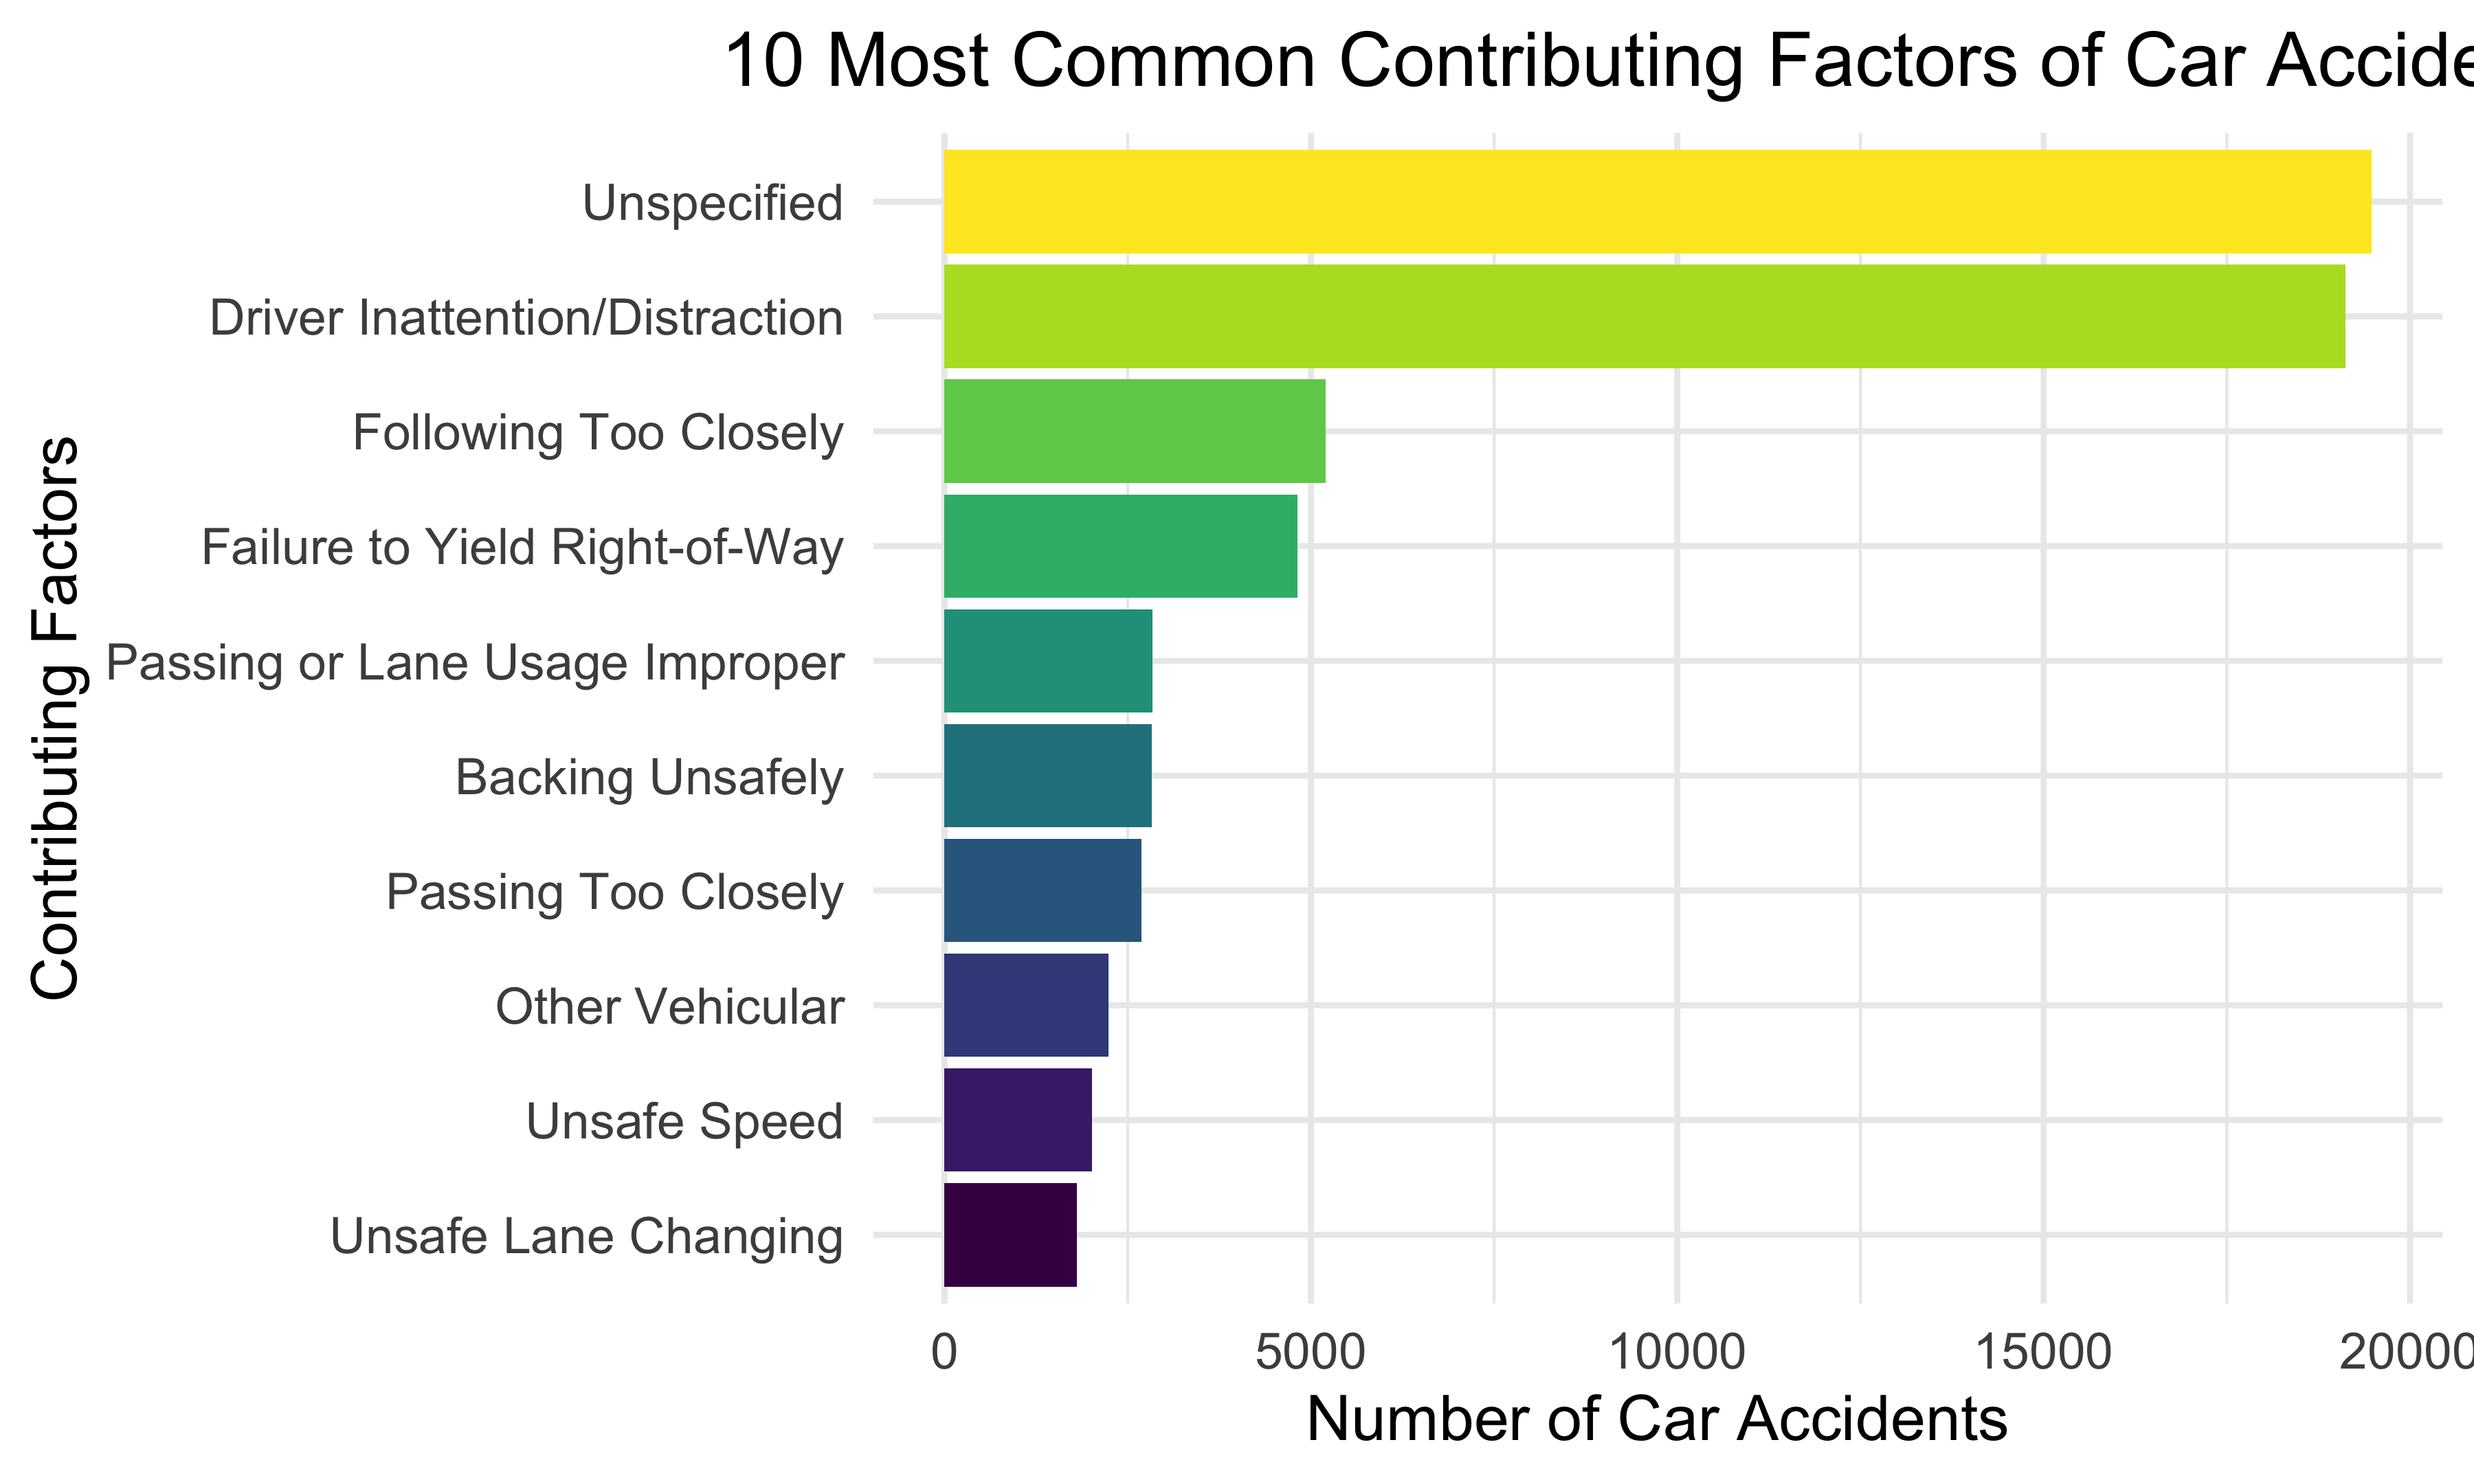
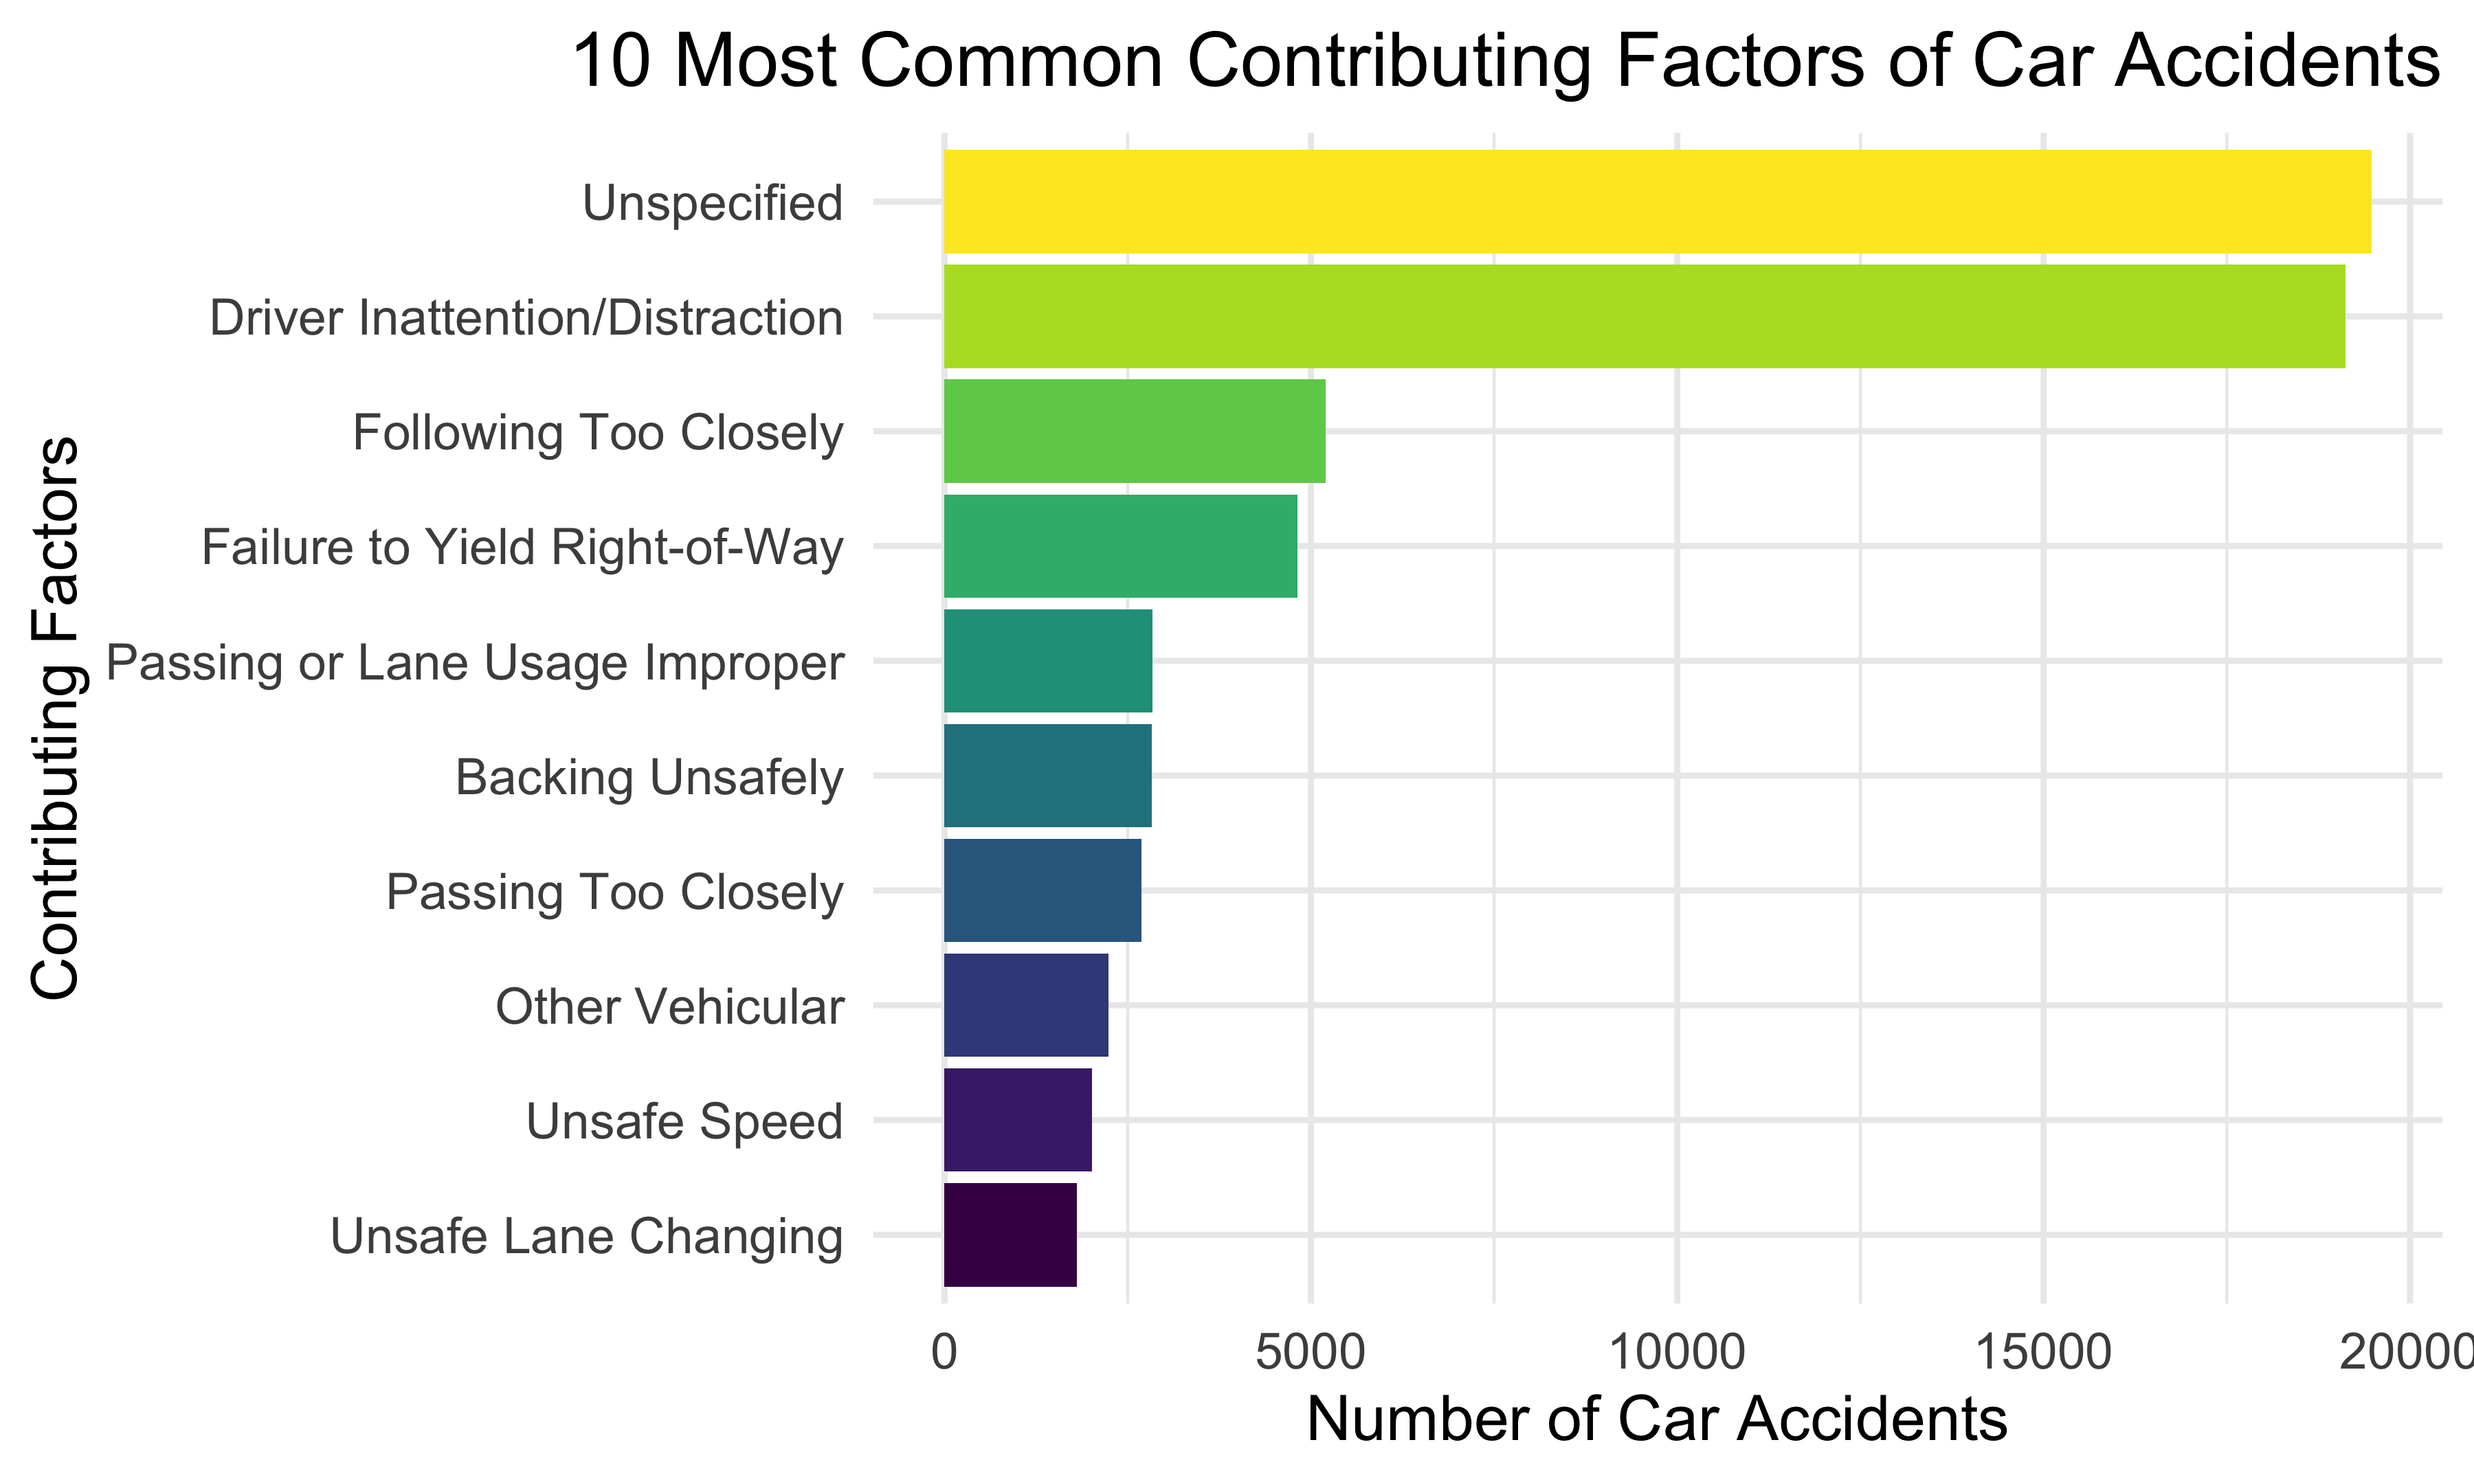
Update the frequency page

Changed region(s): [[0.2178, 0.0, 1.0, 0.062]]

diff --git a/frequency.html b/frequency.html
@@ -412,13 +412,13 @@ div.tocify {
 
 
 <div id="accident-frequency" class="section level3">
-<h3>Accident frequency</h3>
-<p>First, we will have a overview of the relevant factors about car
-accidents using bar chart.</p>
+<h3>Accident Frequency</h3>
+<p>First, we will focus on factors that relate to the number of
+accidents. We use bar charts to illustrate the number of accidents by
+contributing factors, street, borough and month, and day.</p>
 </div>
-<div id="most-common-contributing-factors-of-car-accidents"
-class="section level3">
-<h3>10 most common contributing factors of car accidents</h3>
+<div id="most-common-contributing-factors" class="section level3">
+<h3>10 Most Common Contributing Factors</h3>
 <pre class="r"><code>contr_factors = 
   accidents1 %&gt;% 
   count(contributing_factor_vehicle_1) %&gt;% 
@@ -436,18 +436,18 @@ contr_factors %&gt;%
        x = &quot;Contributing Factors&quot;,
        y = &quot;Number of Car Accidents&quot;) + 
   coord_flip() +
-  theme(legend.position = &quot;none&quot;, plot.title = element_text(hjust = 0.5)) </code></pre>
+  theme(legend.position = &quot;none&quot;, plot.title = element_text(hjust = 1)) </code></pre>
 <p><img src="frequency_files/figure-html/unnamed-chunk-2-1.png" width="90%" /></p>
-<p>We first tried to find out which factors are the most common in
-leading to car accidents. Thus, we constructed a bar plot illustrating
-the top 10 most common contributing factors of car accidents. Besides
-those accidents that do not have reasons specified, drivers’ inattention
-and distraction are shown to be the top common factor resulting in car
-accidents. Other common reasons include following the front car too
-closely, failure to yield right-of-way, and so forth.</p>
+<p>We first tried to figure out which factors are the leading factors of
+car accidents. We constructed a bar plot illustrating the top 10 most
+common contributing factors of car accidents. Except accidents without
+specified reasons, drivers’ inattention and distraction are shown to be
+the top common factor resulting in car accidents. Other common reasons
+include following the front car too closely, failure to yield
+right-of-way, and so forth.</p>
 </div>
 <div id="top-10-streets-of-accidents" class="section level3">
-<h3>Top 10 streets of accidents</h3>
+<h3>Top 10 Streets of Accidents</h3>
 <pre class="r"><code>streets = 
   accidents1 %&gt;% 
   filter(on_street_name != &quot;NA&quot;) %&gt;% 
@@ -468,15 +468,14 @@ streets %&gt;%
   coord_flip() +
   theme(legend.position = &quot;none&quot;, plot.title = element_text(hjust = 0.5)) </code></pre>
 <p><img src="frequency_files/figure-html/unnamed-chunk-3-1.png" width="90%" /></p>
-<p>We then explored the streets where most car accidents have taken
+<p>Then, we explored the streets where most car accidents have taken
 place. The bar graph indicates that Belt Parkway has the most car
-accidents. Besides, Long Island Expressway, Brooklyn Queens Expressway,
-and FDR Drive also have a relatively great amount of accidents
-occurred.</p>
+accidents. Long Island Expressway, Brooklyn Queens Expressway, and FDR
+Drive also have a relatively great amount of accidents.</p>
 </div>
 <div id="number-of-accidents-in-boroughs-by-month"
 class="section level3">
-<h3>Number of accidents in boroughs by month</h3>
+<h3>Number of Accidents in Boroughs by Month</h3>
 <pre class="r"><code>accidents1 %&gt;% 
   filter(borough != &quot;NA&quot;) %&gt;% 
   group_by(borough) %&gt;%
@@ -493,8 +492,8 @@ class="section level3">
     fill = &quot;Borough&quot;) + 
   theme(plot.title = element_text(hjust = 0.5)) </code></pre>
 <p><img src="frequency_files/figure-html/unnamed-chunk-4-1.png" width="90%" /></p>
-<p>We also investigated the overall pattern of car accidents occurred in
-different boroughs over month. There tend to be most car accidents in
+<p>We also investigated the overall pattern of car accidents in
+different boroughs over months. There tend to be most car accidents in
 January and February while least car accidents took place in April.
 Overall, the number of car accidents decreases from January to April and
 increases from April to July. Brooklyn seems to have the most car
@@ -502,7 +501,7 @@ accidents while least car accidents occurred in Staten Island over the 8
 months in New York City.</p>
 </div>
 <div id="overall-number-of-accidents-by-day" class="section level3">
-<h3>Overall number of accidents by day</h3>
+<h3>Overall Number of Accidents by Day</h3>
 <pre class="r"><code>accidents1 %&gt;% 
   group_by(crash_date) %&gt;% 
   count(crash_date) %&gt;% 
@@ -513,10 +512,10 @@ months in New York City.</p>
        y = &quot;Number of Car Accidents&quot;) + 
   theme(legend.position = &quot;right&quot;, plot.title = element_text(hjust = 0.5)) </code></pre>
 <p><img src="frequency_files/figure-html/unnamed-chunk-5-1.png" width="90%" /></p>
-<p>A bar plot of number of car accidents by day over the 8 months was
-also constructed. Most car accidents took place from January to March
-while April has the least accidents. This graph also supports the
-pattern demonstrated by the plot above.</p>
+<p>This bar plot represents the number of car accidents each day over
+the 8 months. Most car accidents took place from January to March. The
+month with the least number of car accidents is April. This graph also
+matches the pattern demonstrated by the previous plot.</p>
 </div>
 
 
